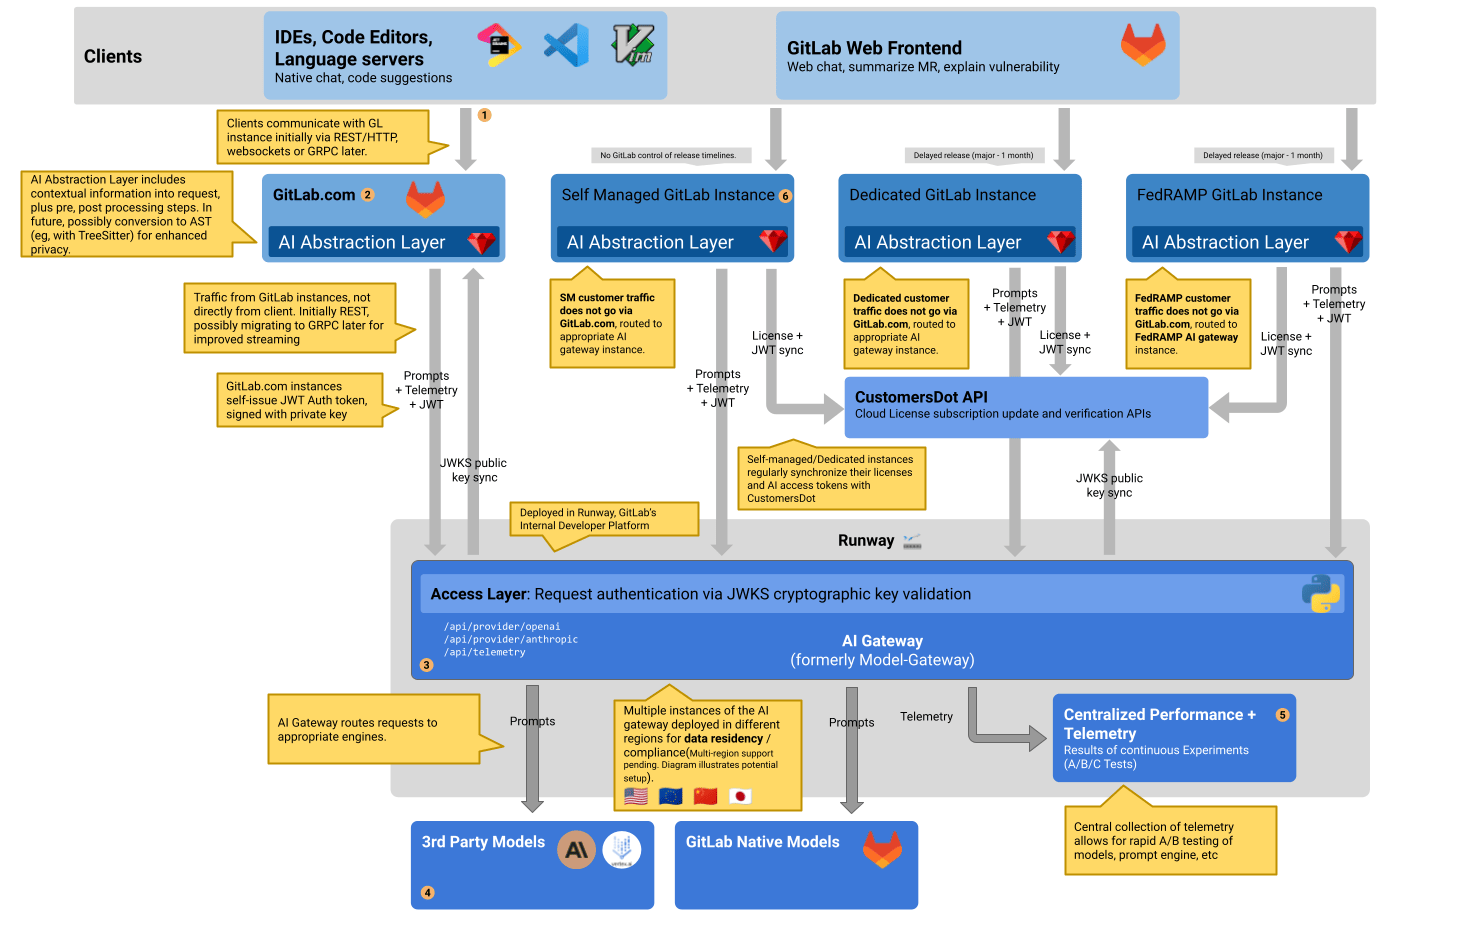
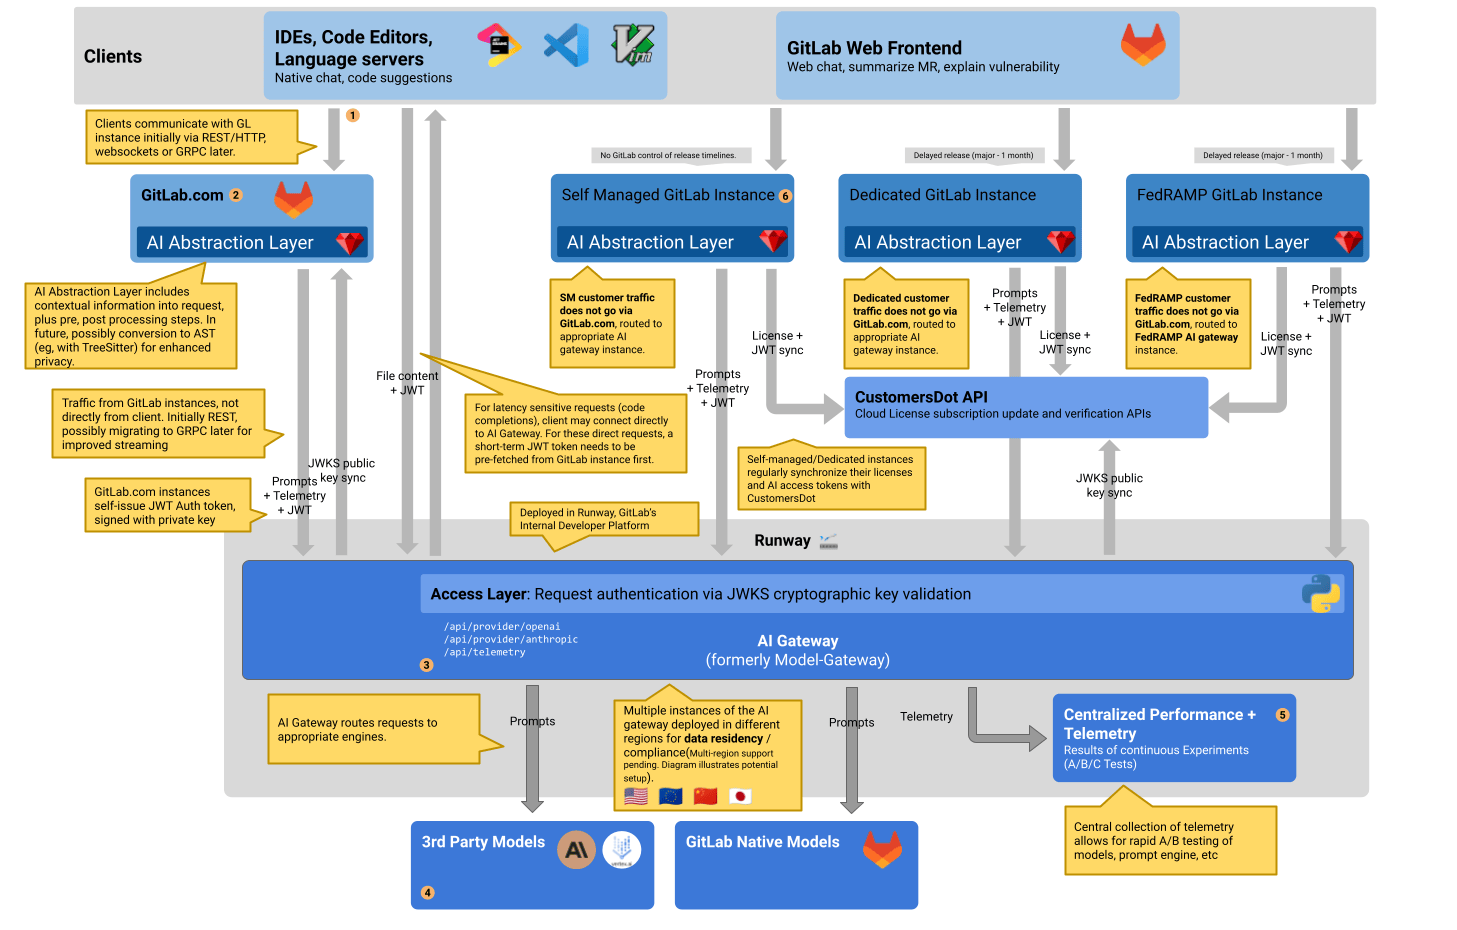
Update AI blueprint
Update AI blueprint to cover also direct client<->AI gateway
connections.

Changed region(s): [[0.0, 0.0935, 0.4942, 0.8731], [0.4942, 0.686, 0.6795, 0.7172], [0.5251, 0.5613, 0.6177, 0.5925]]

diff --git a/doc/architecture/blueprints/ai_gateway/index.md b/doc/architecture/blueprints/ai_gateway/index.md
@@ -24,22 +24,26 @@ will use the same gateway. However, in the future we could also deploy
 regional gateways, or even customer-specific gateways if the need
 arises.
 
-The AI-Gateway is an API-Gateway that takes traffic from clients, in
-this case GitLab installations, and directing it to different
-services, in this case AI-providers and their models. This North/South
-traffic pattern allows us to control what requests go where and to
-translate the content of the redirected request where needed.
+The AI-Gateway is an API-Gateway that handles traffic steered to it from a
+globally reachable `cloud.gitlab.com/ai/*` route. IDEs currently use `cloud.gitlab.com/ai/*`
+indirectly through a GitLab Rails instance. In
+future we plan to allow network endpoints such as IDEs to connect directly to
+`cloud.gitlab.com` (for more information, see [directly connected clients](#directly-connected-clients)).
+The AI-Gateway then directs this traffic to other services, in this case
+AI-providers and their models. This north/south traffic pattern allows us to
+control what requests go where and to translate the content of the redirected
+request where needed.
 
 ![architecture diagram](img/architecture.png)
 
 **Currently, multi-region deployment is not supported; it's a feature under consideration. The existing diagram illustrates a potential architecture for deploying across multiple regions.**
 
-[Diagram source](https://docs.google.com/drawings/d/1PYl5Q5oWHnQAuxM-Jcw0C3eYoGw8a9w8atFpoLhhEas/edit)
+[Diagram source](https://docs.google.com/drawings/d/1xhGElN4rGvCY-SOvSkRpSdZ_MZ3IgVQiiTlKQpkPyLE/edit)
 
 By using a hosted service under the control of GitLab we can ensure
 that we provide all GitLab instances with AI features in a scalable
 way. It is easier to scale this small stateless service, than scaling
-GitLab-rails with it's dependencies (database, Redis).
+GitLab Rails with its dependencies (database, Redis).
 
 It allows users of self-managed installations to have access to
 features using AI without them having to host their own models or
@@ -56,16 +60,30 @@ Rubyists to pick up through in the younger codebase that is the
 AI-gateway. It also makes it easy for data- and ML-engineers that
 already have Python experience to contribute.
 
+## Directly connected clients
+
+Direct connections are not supported yet and this work is tracked in
+[this epic](https://gitlab.com/groups/gitlab-org/-/epics/12224#proposed-solution).
+
+Decision: [ADR-001: Allow direct connections](decisions/001_direct_connections.md)
+
+Code completion requests will be sent directly from a client to AI Gateway to
+improve latency of these requests. It will be up to the client to decide if a
+request can be sent directly to AI Gateway or to GitLab Rails for additional
+enrichment. Usage of direct connections will be optional and backward
+compatible. If a client will not support detection of completion requests, it
+can still send these requests through GitLab Rails (as is now) without
+specifying the type of code suggestion request.
+
 ## API
 
 ### Basic stable API for the AI-gateway
 
 Because the API of the AI-gateway will be consumed by a wide variety
-of GitLab instances, it is important that we design a stable, yet
-flexible API.
+of clients, it is important that we design a stable, yet flexible API.
 
 To do this, we can implement an API-endpoint per use-case we
-build. This means that the interface between GitLab and the AI-gateway
+build. This means that the interface between client and the AI-gateway
 is one that we build and own. This ensures future scalability,
 composability and security.
 
@@ -74,8 +92,9 @@ for details. The AI-gateway will support the last 2 major
 versions. For example when working on GitLab 17.2, we would support
 both GitLab 17 and GitLab 16.
 
-We can add common functionality like rate-limiting, circuit-breakers and
-secret redaction at this level of the stack as well as in GitLab-rails.
+Because clients can connect directly to AI Gateway, common functionality like
+rate-limiting, circuit-breakers and secret redaction should be added both at
+this level of the stack as well as in GitLab Rails.
 
 #### Protocol
 
@@ -83,7 +102,7 @@ The communication between the AI-Gateway service and its clients (including the 
 
 The AI-Gateway API shall expose single-purpose endpoints responsible for providing access to different AI features. [A later section](#single-purpose-endpoints) of this document provides detailed guidelines for building specific endpoints.
 
-The AI Gateway communication protocol shall only expect a rudimentary envelope that wraps all feature-specific dynamic information. The proposed architecture of the protocol allows the API endpoints to be version agnostic, and the AI-Gateway APIs compatible with multiple versions of GitLab(or other clients that use the gateway through GitLab).
+The AI Gateway communication protocol shall only expect a rudimentary envelope that wraps all feature-specific dynamic information. The proposed architecture of the protocol allows the API endpoints to be version agnostic, and the AI-Gateway APIs compatible with multiple versions of GitLab(or other clients that use the gateway).
 
  **This means
 that all clients regardless of their versions use the same set of AI-Gateway API feature endpoints. The AI-gateway feature endpoints have to support different client versions, instead of creating multiple feature endpoints per different supported client versions**.
@@ -139,8 +158,8 @@ Our goal is to minimize code that we can't update on a customer's behalf, which 
 - We want a single point for controlling and measuring cost.
 - As much as possible, we want to track metrics (usage statistics, failures to respond, usage pattern, question categories, etc.) in the gateway rather than distributed across many points. (Of course some metrics can only be captured on the client side.)
 
-Having the business logic in GitLab-Rails requires customers to upgrade their GitLab instances, which affects the first point. Some of the on-premises users can't upgrade their instances immediately due to their company policy.
-For example, if we had a bug in a prompt template in GitLab-Rails and fixed it in 16.6, and customers are using 16.5 and the next upgrade is scheduled in 3 months, they have to use the buggy feature for 3 months.
+Having the business logic in GitLab Rails requires customers to upgrade their GitLab instances, which affects the first point. Some of the on-premises users cannot upgrade their instances immediately due to their company policy.
+For example, if we had a bug in a prompt template in GitLab Rails and fixed it in 16.6, and customers are using 16.5 and the next upgrade is scheduled in 3 months, they have to use the buggy feature for 3 months.
 
 **This does not mean that prompts need to be built inside the
 AI-gateway.** But if prompts are part of the payload to a single
@@ -153,7 +172,7 @@ GitLab installations as the AI landscape changes.
 
 ### The AI-Gateway API protocol
 
-It is important to build each single-purpose endpoint, in a version-agnostic way so it can be used by different GitLab instances (and indirectly by external clients). To achieve this goal:
+It is important to build each single-purpose endpoint, in a version-agnostic way so it can be used by different GitLab instances and by external clients. To achieve this goal:
 
 **The AI-Gateway protocol shall rely on a simple JSON envelope wrapping all feature-specific information.** The AI-Gateway protocol can be seen as a transport layer protocol from [the OSI model](https://en.wikipedia.org/wiki/OSI_model) (eg: TCP, UDP) which defines how to transport information between nodes, without being aware of what information is being transported.
 
@@ -345,7 +364,7 @@ We will try to come up with an architecture for all AI-related features.
 
 #### Exposing AI providers
 
-A lot of AI functionality has already been built into GitLab-Rails
+A lot of AI functionality has already been built into GitLab Rails
 that currently builds prompts and submits this directly to different
 AI providers. At the time of writing, GitLab has API-clients for the
 following providers:
@@ -416,7 +435,7 @@ clients as for the AI gateway.
 
 In a first iteration we could consider keeping the current REST
 payloads that the VSCode extension and the Web-IDE send, but direct it
-to the appropriate GitLab installation. GitLab-rails can wrap the
+to the appropriate GitLab installation. GitLab Rails can wrap the
 payload in an envelope for the AI-gateway without having to interpret
 it.
 
@@ -427,7 +446,7 @@ it on to the AI-Gateway. GitLab can add information to the
 straight through to the AI-gateway.
 
 If a request is initiated from another client (for example VSCode),
-GitLab-rails needs to forward the entire payload in addition to any
+GitLab Rails needs to forward the entire payload in addition to any
 other enhancements and prompts. This is required so we can potentially
 support changes from a newer version of the client, traveling through
 an outdated GitLab installation to a recent AI-gateway.
@@ -456,6 +475,18 @@ in:
 
 The specific mechanism by which trust is delegated between end-users, GitLab instances,
 and the AI-gateway is covered in the [Cloud Connector access control documentation](../../../development/cloud_connector/architecture.md#access-control).
+
+AI Gateway is accessed only through Cloud connector which handles instance
+authentication (among others). Cloud connector will need to support also end-user
+authentication because some requests (e.g. code completion) will be sent
+directly by clients instead of sending all requests indirectly through
+GitLab Rails. A possible solution in
+which short-term user tokens are used is described in [Epic 13252](https://gitlab.com/groups/gitlab-org/-/epics/13252).
+AI Gateway needs to be able to distinguish between requests proxied by
+GitLab Rails and direct client requests because some endpoints or parameters
+may not be available for direct requests (for example clients should not be
+able to send final prompt, but rather only sub-components from which the final
+prompt is built by AI Gateway).
 
 ## Embeddings
 
@@ -523,3 +554,7 @@ Further testing strategy is being discussed in
 
 Alternative solutions were discussed in
 [applied-ml/code-suggestions/ai-assist#161](https://gitlab.com/gitlab-org/modelops/applied-ml/code-suggestions/ai-assist/-/issues/161#what-are-the-alternatives).
+
+## Decisions
+
+- [ADR-001: Allow direct connections](decisions/001_direct_connections.md)

diff --git a/doc/architecture/blueprints/ai_gateway/decisions/001_direct_connections.md b/doc/architecture/blueprints/ai_gateway/decisions/001_direct_connections.md
@@ -1,0 +1,48 @@
+---
+owning-stage: "~devops::create"
+description: 'AI Gateway ADR 001: Allow direct connections'
+---
+
+# AI Gateway ADR 001: Allow direct connections
+
+NOTE:
+This decision is scoped to code completion requests. Code completion requests are a type of [code suggestion request](../../../../user/project/repository/code_suggestions/index.md).
+
+## Summary
+
+Code completion requests will be sent directly from client to AI Gateway, while code generation requests will still be sent indirectly through GitLab Rails.
+
+## Context
+
+The original iteration of the blueprint suggested to route all code suggestion requests to AI Gateway indirectly through GitLab Rails.
+There were multiple reasons for this:
+
+- the decision if a code suggestion request is a completion or generation request was done on GitLab Rails side
+- Simpler authentication of requests could be used. For example, we could use instance JWT tokens to authenticate requests from self-managed instances.
+
+In [epic 12224](https://gitlab.com/groups/gitlab-org/-/epics/12224), we discussed various
+options to decrease request latency which would decrease also overall response
+time.
+
+## Decision
+
+In the epic we decided to use different request flows for code completion and code generation requests. The reason is that both request types are slightly different:
+
+- Code completion requests are much more sensitive to latency and from the request [timing breakdown](https://gitlab.com/groups/gitlab-org/-/epics/12224#latency-breakdown-by-components), more than 50% of time is spent connecting to the AI provider.
+- Code generation requests are not so sensitive to latency. Most of the request time is spent on AI provider side and latency optimization would have marginal effect in the overall response time. Also we enrich these requests with additional data in GitLab Rails so it's still important to route these requests through GitLab Rails.
+
+For code completion requests we decided that these requests can be sent by clients directly to AI Gateway. This will decrease latency by 150ms. We will benefit from this also when AI Gateway supports [multi-region deployments](https://gitlab.com/groups/gitlab-com/gl-infra/-/epics/1206) because then code completion requests can be handled inside the same region. GitLab Rails does not support multi-region deployment, so with having completion requests routed through GitLab Rails we cannot eliminate long-distance connection hops which increases latency as well.
+
+Usage of direct connection will be optional optimization. If a client does not recognize that a request is of type "completion", then it can still send the request through GitLab Rails as is now.
+
+We considered also using the websocket protocol, but for now we will keep using HTTP. The plan is to use short-term JWTs to authenticate direct connections. This should be a fast operation (we use this already for requests sent indirectly) and it duplicates the major advantage of websocket. With websocket, we can authenticate users only once when opening the connection. So although with websocket, the connection might be faster by a few milliseconds, it does not outweighs downsides. This means mainly much more work both on AI Gateway and client side to switch to a different protocol. Also websocket is a stateful protocol which would complicate AI Gateway multi-region support.
+
+Latency will improve even further for non-US GitLab users when multi-region deployment of AI-gateway is supported. We then avoid long-distance connection hop client<->GitLab Rails.
+
+## Consequences
+
+- No pre-processing for code completions requests by GitLab Rails. We currently do not do any special pre-processing of code completion requests on GitLab Rails side. If we want to do it in future, a possible approach would be to pre-fetch GitLab-specific data and do this enrichment on the client side as outlined in [this comment](https://gitlab.com/groups/gitlab-org/-/epics/12224#note_1744581116).
+- Cloud Connector needs to be able to authenticate these direct connections. We will use short-term JWTs issued for end users. As decided in [issue 168](https://gitlab.com/gitlab-org/cloud-connector-team/team-tasks/-/issues/168) that AI Gateway will issue these short-term tokens.
+- To fully leverage this optimization, we will need to support request type recognition (completion vs generation) on the client side. This is already supported for some clients and languages, but ideally we should support it for most of frequently used editors and programming languages.
+- Client initialization process needs to be updated. Clients will receive short-term token with other direct connection details from GitLab Rails instance. For more information, see [issue 66](https://gitlab.com/gitlab-org/editor-extensions/meta/-/issues/66)
+- AI Gateway should support monitoring and rate-limiting which is now handled by GitLab Rails.
